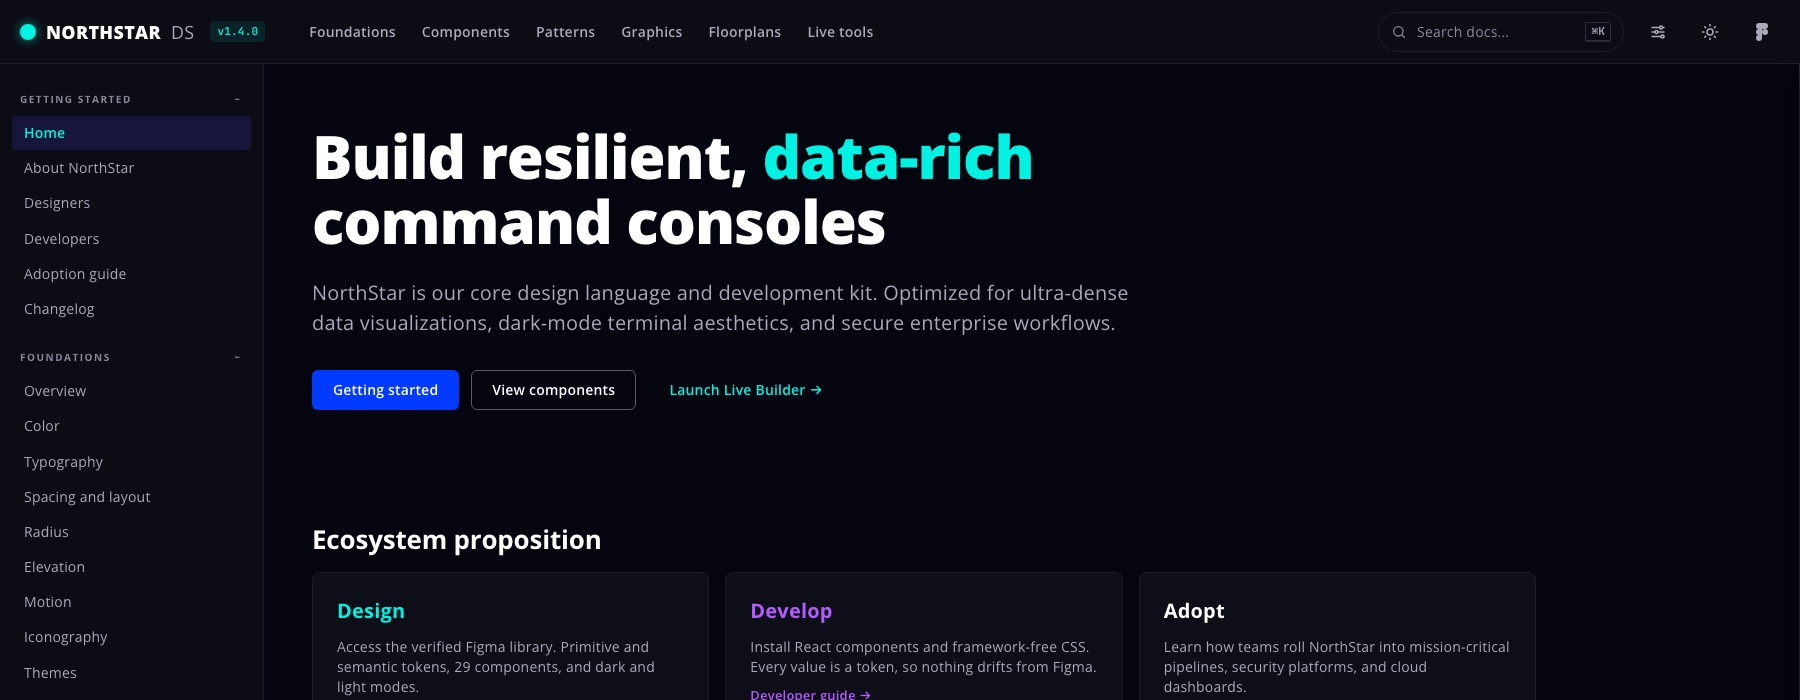
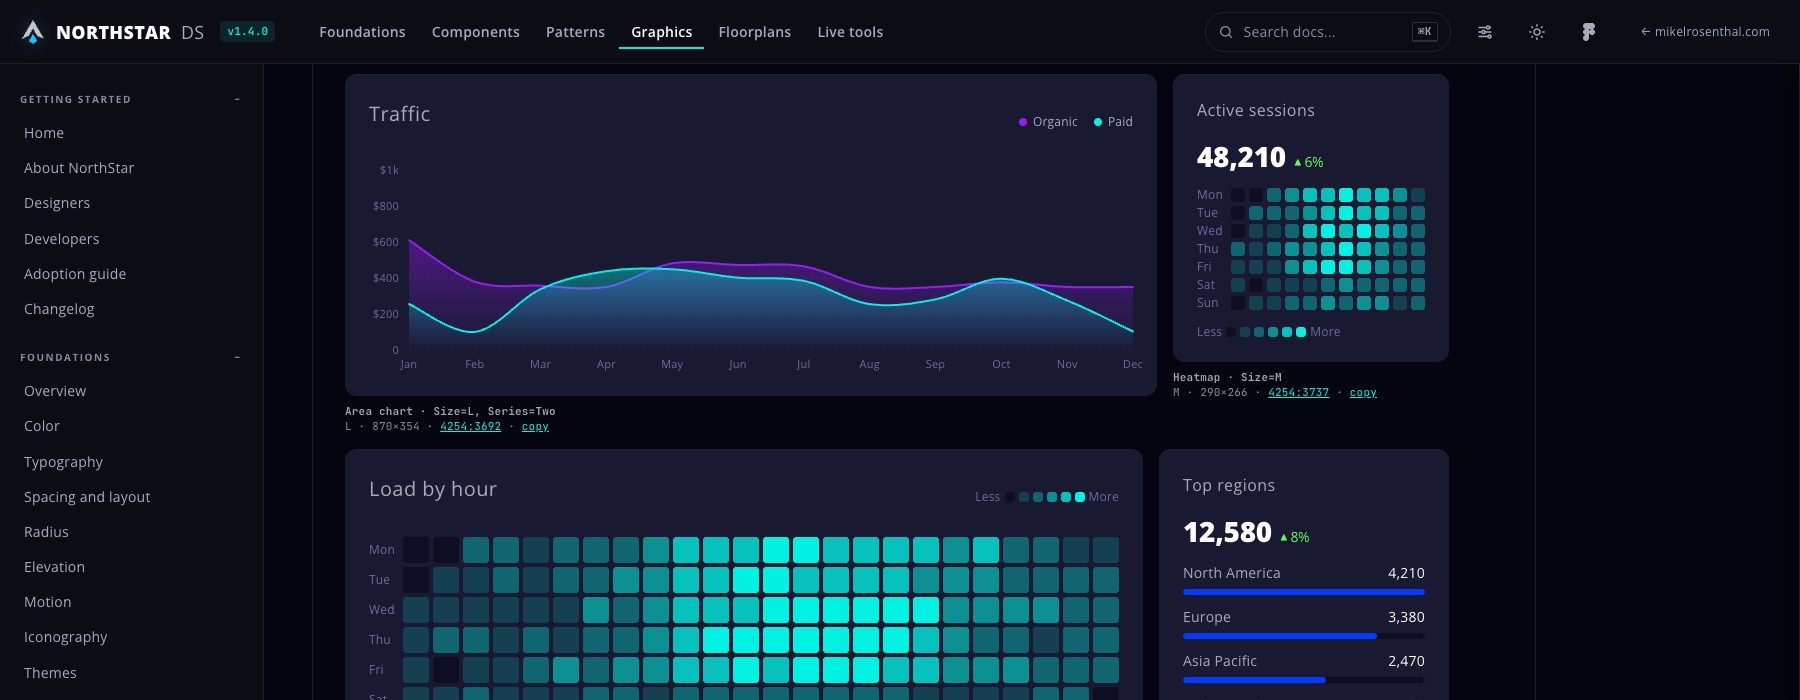
Homepage: fresh dark NorthStar card from the graphics gallery

diff --git a/index.html b/index.html
@@ -885,7 +885,7 @@ body.cf-lock{overflow:hidden}
       <figcaption class="sys-cap"><b>TransUnion — <em>TUCM</em></b><span>Design System · Credit &amp; Finance · 2018–2019<br><span class="cta">Case file →</span></span></figcaption>
     </figure>
     <figure class="sys-card wide reveal" data-href="northstar/" tabindex="0" role="link" aria-label="Open the NorthStar design system site">
-      <div class="frame"><img src="ASSETS/design-systems/board-northstar.jpg" alt="NorthStar Design System documentation site, 2026 — foundations, components, patterns, graphics framework and live tools" loading="lazy" width="1800" height="700"></div>
+      <div class="frame"><img src="ASSETS/design-systems/board-northstar.jpg" alt="NorthStar Design System graphics framework, 2026: area chart, heatmaps and ranked bars from the 95-widget gallery, in dark mode" loading="lazy" width="1800" height="700"></div>
       <figcaption class="sys-cap"><b>NorthStar — <em>Live system</em></b><span>Design System · Documentation Site · Figma to code · 2026<br><span class="cta">Open the live system →</span></span></figcaption>
     </figure>
   </div>
